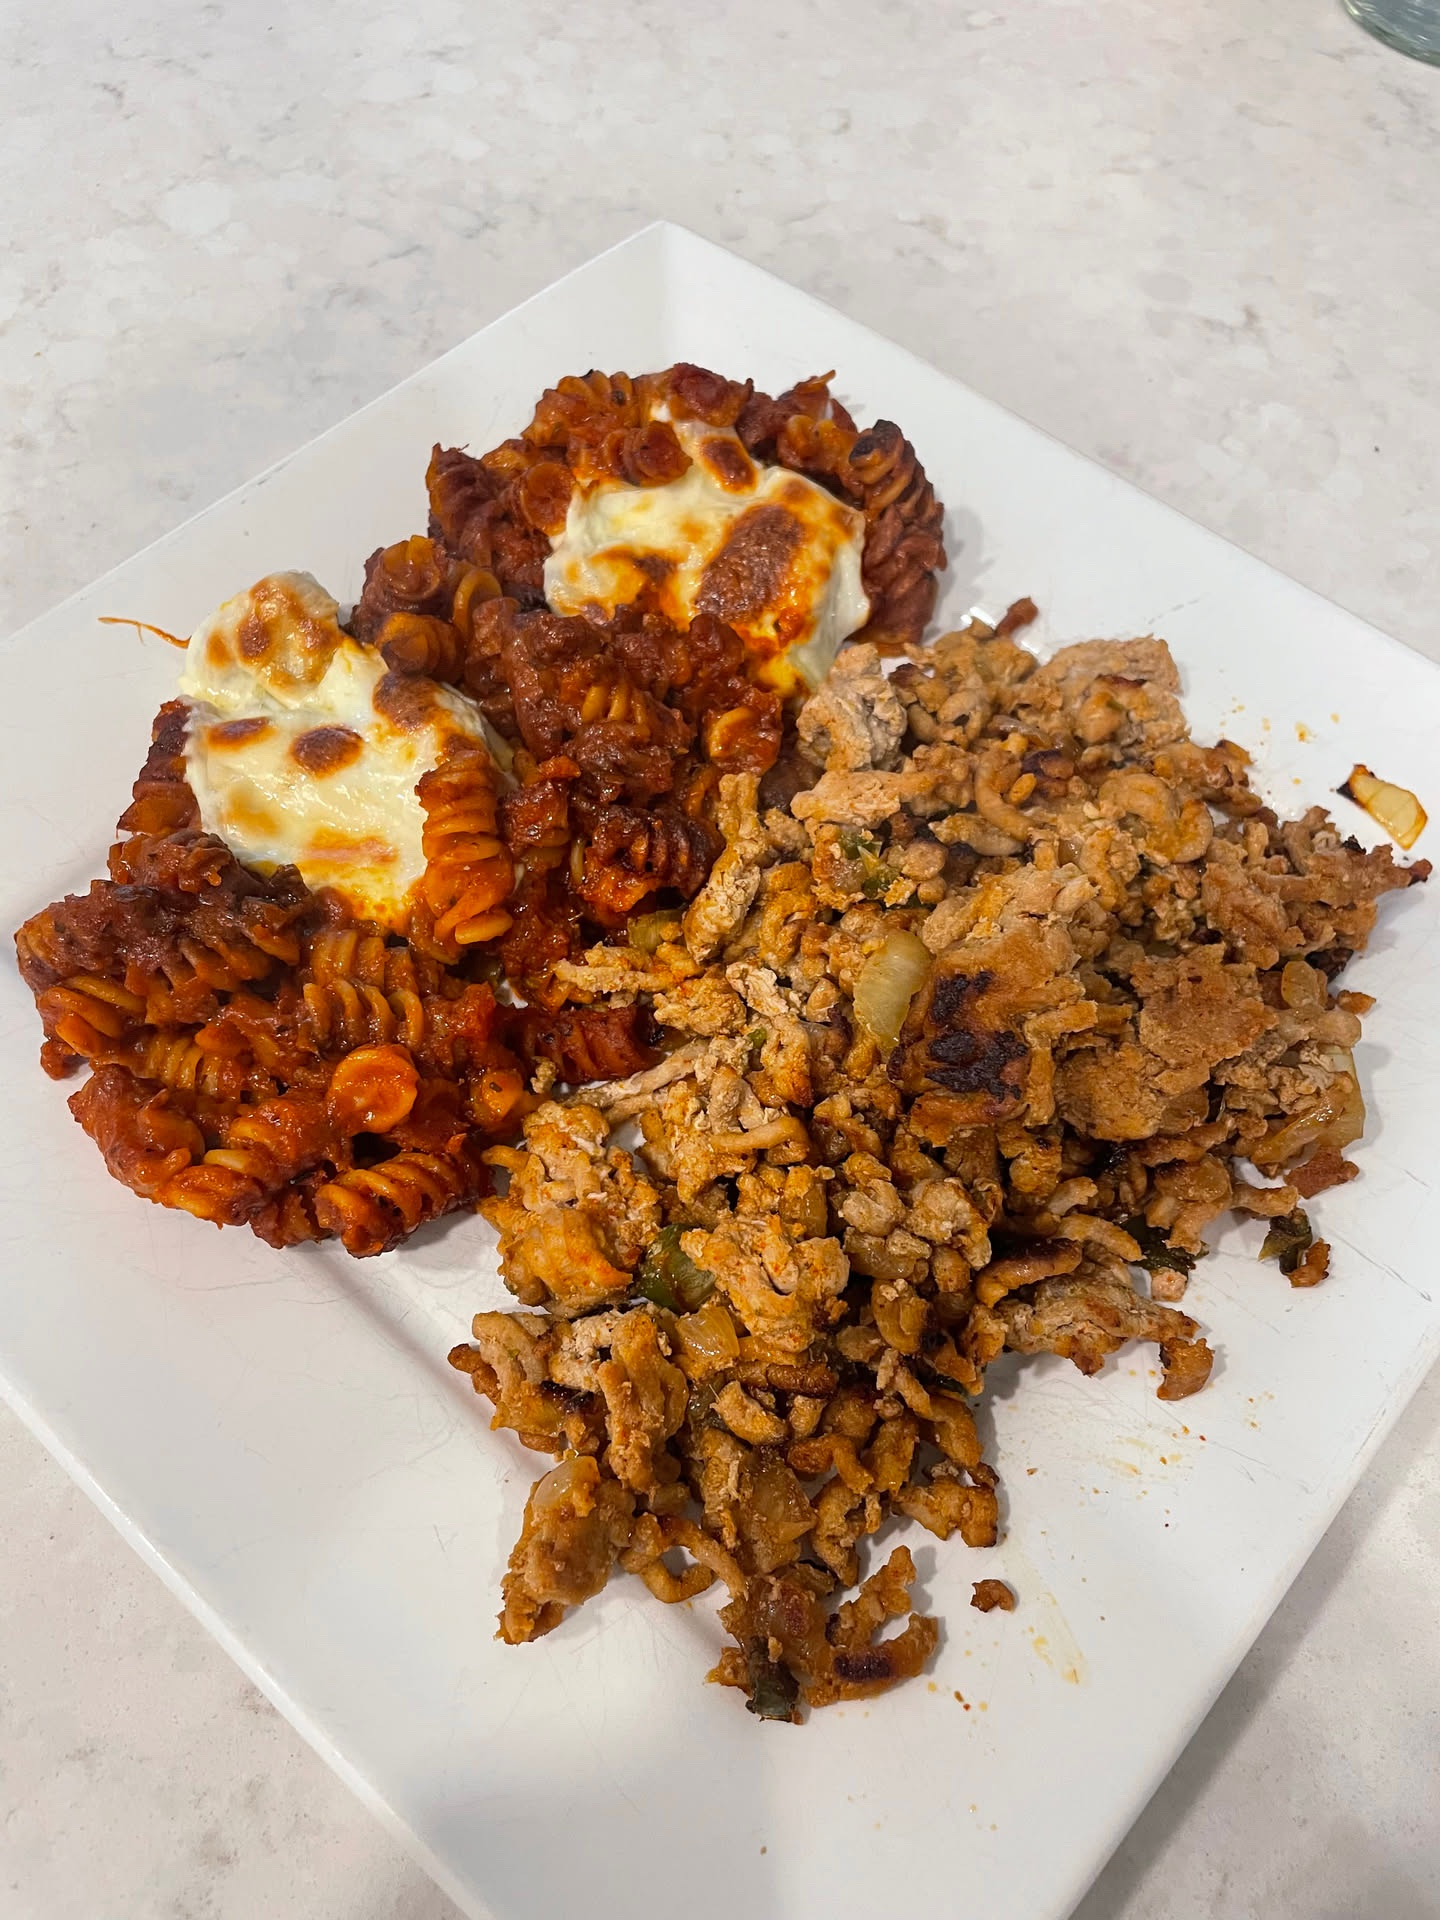
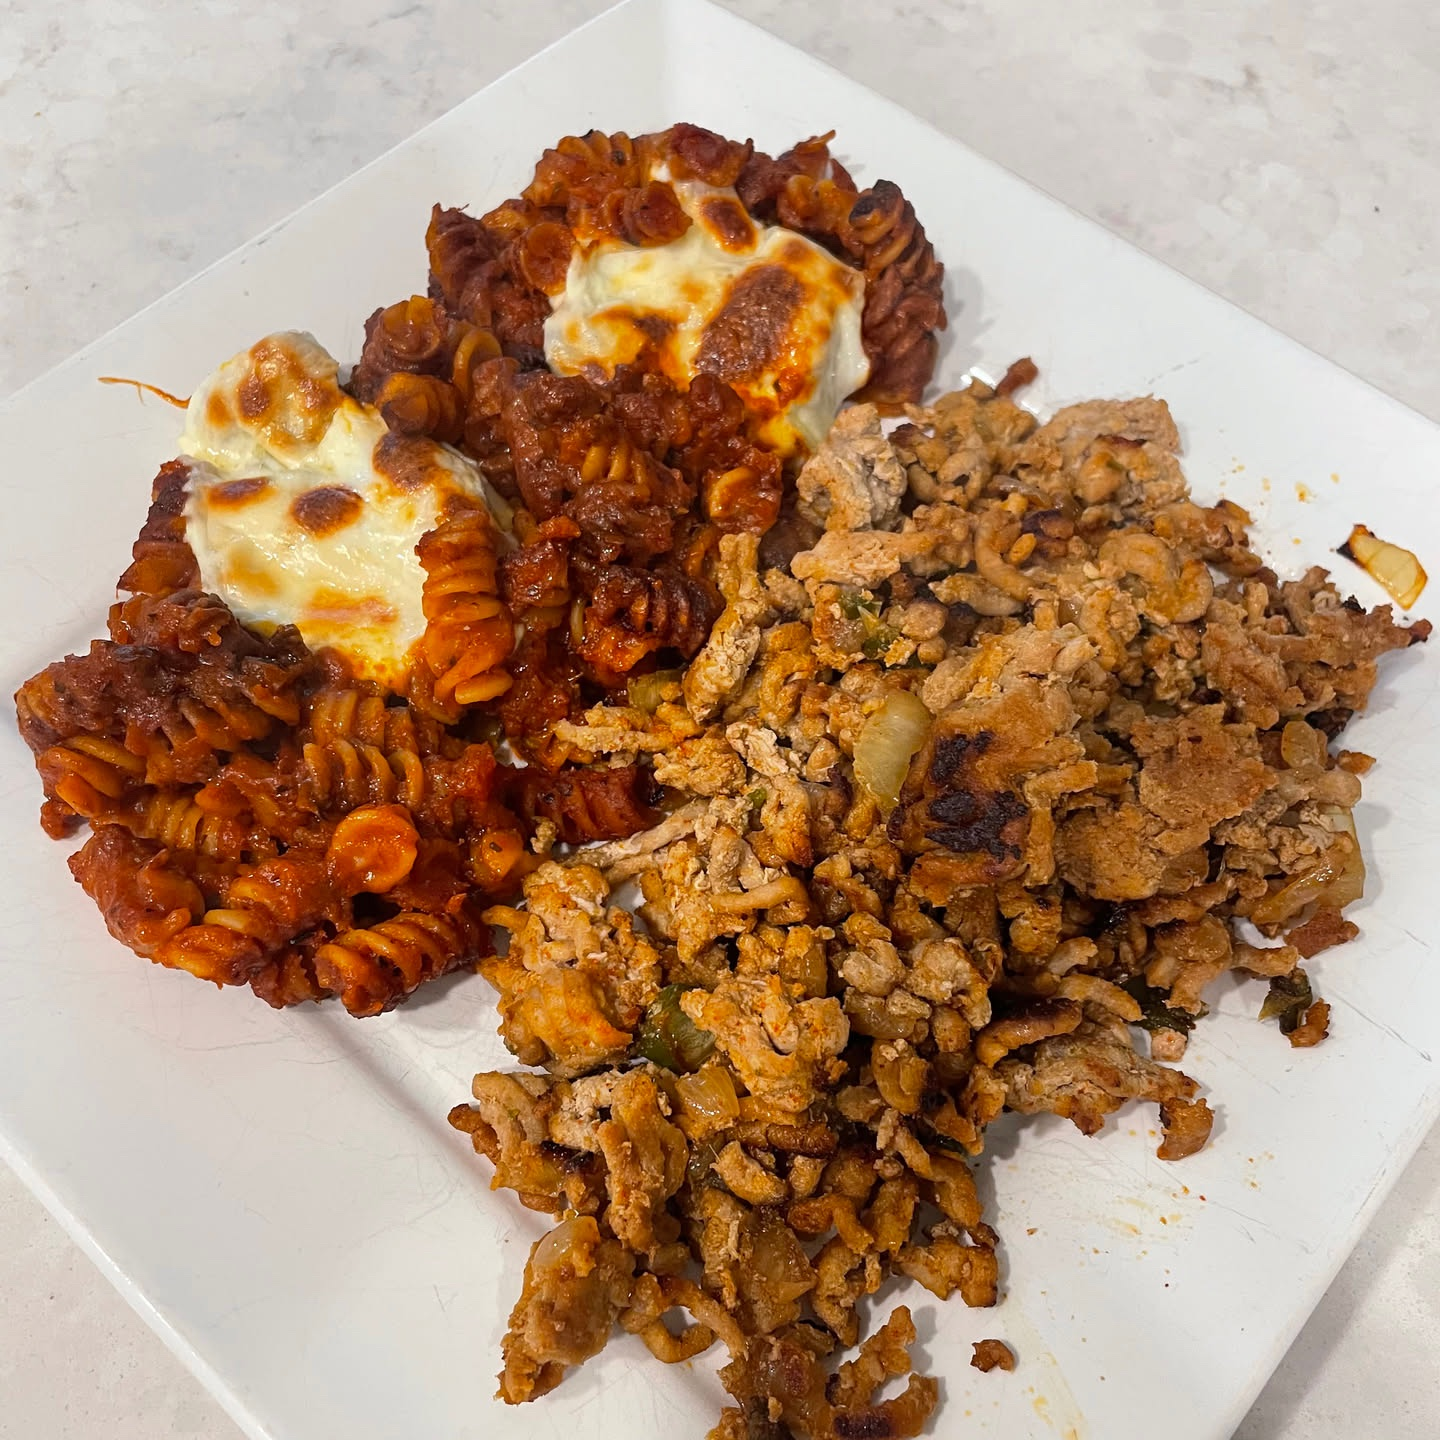
chore: square plate photo, EXIF caption, full-color exemption

diff --git a/src/css/styles.css b/src/css/styles.css
@@ -49,6 +49,10 @@ figure {
   margin: 0 auto 2rem;
 }
 
+img.color {
+  filter: none;
+}
+
 figcaption {
   font-size: 0.875rem;
   color: #767676;

diff --git a/src/posts/spaghetti-all-assassina.md b/src/posts/spaghetti-all-assassina.md
@@ -60,4 +60,4 @@ Salt in the sauce, not on the pasta. Surface salt never makes it in.
 ## CONCLUSION
 Technically we made dinner. Mostly we practiced watching something burn without saving it. You can call that cooking if you want to.
 
-![Plated spaghetti all'assassina made with rotini, browned cheese on top, the well seasoned ground whatever dry on the side](/img/spaghetti-all-assassina.jpg){sizes="(max-width: 480px) 320px, 640px"}
+![Plated spaghetti all'assassina made with rotini, browned cheese on top, the well seasoned ground whatever dry on the side](/img/spaghetti-all-assassina.jpg "iPhone 12 • 26mm ƒ/1.6 1/60s ISO 250"){.color sizes="(max-width: 480px) 320px, 640px"}
